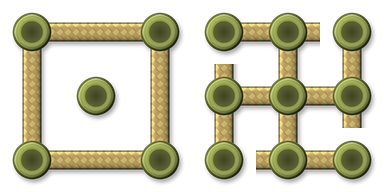
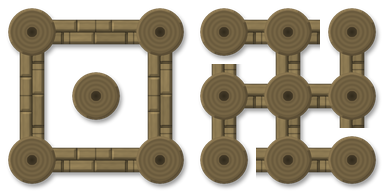
feat(art): walls with hard facets per piece, no outline and a darker palette; wood walls of staggered boards, bamboo walls of two rows of old poles; ceramic floor with the Surya Majapahit

diff --git a/Global/Asset/Structure/make_walls.py b/Global/Asset/Structure/make_walls.py
@@ -1,7 +1,7 @@
 """Wall sheets in RimWorld's art style, seen straight from above: a post at a wall's end, corner or join, beams to the
-walls beside it; material texture, soft bevel lit from the top-left, a dark edge of the material's own colour, a
-faint shadow. 16 join shapes in the side layout of module 10's walls, 64 px a cell.
-usage: python make_walls.py [key ...] [--preview]      (needs Pillow, numpy)"""
+walls beside it; material texture, a hard bevel on each piece (plank, brick, block, pole) lit from the top-left, no
+outline, a faint shadow. 16 join shapes in the side layout of module 10's walls, 64 px a cell.
+usage: python make_walls.py [key ...] [--outline]      (needs Pillow, numpy)"""
 import math
 import os
 import sys
@@ -61,31 +61,56 @@ def box(x0, y0, x1, y1, r=0.0):
     return (inside & (dx * dx + dy * dy <= r * r + 1e-6)).astype(np.float32)
 
 
+DARKEN = 0.82                   # walls a little darker than their materials' plain colours, to stand off floors
+
+
 class Material:
     """How a wall of one material looks: beam and post half-widths (in cells), colour, its textures, and its post
     `round` (a bamboo culm) or square with corners rounded by `corner` of its half-width."""
-    def __init__(self, key, colour, beam, post, beam_tex, post_tex, edge=0.42, post_colour=None, round=False, corner=0.18):
-        self.key, self.colour, self.beam, self.post = key, np.array(colour, np.float32), beam, post
+    def __init__(self, key, colour, beam, post, beam_tex, post_tex, edge=1.0, post_colour=None, round=False, corner=0.18,
+                 joints=None, post_joints=None, mortar=None, rough=0.0, open_joints=False):
+        # edge darkens the outline (1 = none, the look chosen); every colour is taken DARKEN times
+        self.key, self.colour, self.beam, self.post = key, np.array(colour, np.float32) * DARKEN, beam, post
         self.beam_tex, self.post_tex, self.edge = beam_tex, post_tex, edge
-        self.post_colour = np.array(post_colour or colour, np.float32)
+        self.post_colour = np.array(post_colour or colour, np.float32) * DARKEN
         self.round, self.corner = round, corner
+        # joints(): the seams or mortar on a beam running across (a T x T bool mask), post_joints() on a post; mortar is
+        # their colour (None: the piece's own, darkened); rough roughens the outline, as if cut by hand
+        self.joints, self.post_joints, self.rough = joints, post_joints, rough
+        self.open_joints = open_joints                          # the joints are gaps, the ground showing through
+        self.mortar = None if mortar is None else tuple(v * DARKEN for v in mortar)
 
 
 # ------------------------------------------------------------------ textures: T x T arrays of brightness factors, grain along x
 
-def planks(seed, boards=2, half=0.19):
-    """Boards along the beam, a dark seam between them, long grain; repeats every tile along x."""
-    g = field(T / 1.0, 3.0 * SS, seed) * 0.10 + field(T / 4.0, 1.2 * SS, seed + 1) * 0.06
-    y = np.arange(T)[:, None] + 0.5
-    width = 2 * half * T / boards
-    out = 1.0 + g
+# Where each row of boards along a wood beam ends, as fractions of a tile: staggered row to row, repeating every tile.
+BOARD_CUTS = ((0.12, 0.58), (0.36, 0.86))
+
+
+def boards_of(half=0.19):
+    """A wood beam running across: two rows of boards, each board's id, and its joints (the seam between the rows
+    and the boards' butt ends)."""
+    y, x = np.mgrid[0:T, 0:T] + 0.5
     top = T / 2 - half * T
-    for k in range(1, boards):
-        seam = top + k * width
-        out = out * (1 - 0.35 * np.exp(-((y - seam) / (0.9 * SS)) ** 2))
-    for k in range(boards):                       # each board a touch lighter or darker
-        y0, y1 = top + k * width, top + (k + 1) * width
-        out = np.where((y >= y0) & (y < y1), out * (0.96 + 0.08 * ((seed + k * 7) % 3) / 2), out)
+    row = np.clip(np.floor((y - top) / (half * T)), 0, 1).astype(int)
+    ids = np.zeros((T, T), np.int32)
+    ends = np.zeros((T, T), bool)
+    for r, cuts in enumerate(BOARD_CUTS):
+        cut_px = np.array(cuts) * T
+        k = np.searchsorted(cut_px, x[row == r], side="right") % len(cuts)
+        ids[row == r] = r * 10 + k
+        d = np.min(np.abs((x[..., None] - cut_px + T / 2) % T - T / 2), axis=-1)
+        ends |= (row == r) & (d < 0.7 * SS)
+    seam = np.abs(y - T / 2) < 0.7 * SS
+    return ids, seam | ends, row, x, cut_px
+
+
+def planks(seed, boards=2, half=0.19):
+    """Boards along the beam, short and staggered, each its own shade, grain along it."""
+    ids, joints, row, x, _ = boards_of(half)
+    g = field(T / 1.0, 3.0 * SS, seed) * 0.10 + field(T / 4.0, 1.2 * SS, seed + 1) * 0.06
+    tint = 0.90 + 0.16 * ((np.sin(ids * 12.9898 + 3.1) * 43758.5453) % 1.0)
+    out = (1.0 + g) * tint
     return out
 
 
@@ -117,15 +142,50 @@ def culm(seed):
     y, x = np.mgrid[0:T, 0:T] + 0.5
     r = np.hypot(x - T / 2, y - T / 2) / T
     out = 1.0 + 0.06 * np.cos(r * 90)
-    return np.where(r < 0.17, 0.42 + r * 1.2, out)
+    return np.where(r < 0.08, 0.42 + r * 2.4, out)
 
 
-def bricks(seed, half, course=None, length=None):
-    """Bricks seen on the wall's top: courses along the beam, joints staggered row to row, light mortar,
-    each brick a little lighter or darker."""
+# Where each row of bamboo poles along a wall ends, as fractions of a tile: staggered row to row, repeating every tile.
+POLE_CUTS = ((0.20, 0.74), (0.47, 0.99))
+
+
+def poles_along(half):
+    """A wall of old bamboo poles laid along it, two side by side, a wall running across: each pixel's pole, its
+    place across the pole (0..1), and the joints (the seams between rows and the poles' cut ends)."""
     y, x = np.mgrid[0:T, 0:T] + 0.5
-    rows = 3
-    course = course or (2 * half * T / rows)
+    rows = len(POLE_CUTS)
+    top = T / 2 - half * T
+    width = 2 * half * T / rows
+    row = np.clip(np.floor((y - top) / width), 0, rows - 1).astype(int)
+    across = (y - top) / width - row
+    ids = np.zeros((T, T), np.int32)
+    ends = np.zeros((T, T), bool)
+    for r, cuts in enumerate(POLE_CUTS):
+        cut_px = np.array(cuts) * T
+        sel = row == r
+        k = np.searchsorted(cut_px, x[sel], side="right") % len(cuts)
+        ids[sel] = r * 10 + k
+        d = np.min(np.abs((x[..., None] - cut_px + T / 2) % T - T / 2), axis=-1)
+        ends |= sel & (d < 0.7 * SS)
+    seams = (np.minimum(across, 1 - across) * width < 0.6 * SS) & (y > top + 1) & (y < T - top - 1)
+    return ids, across, seams | ends, x
+
+
+def old_poles(seed, half):
+    """Old bamboo poles along the wall: each round across (lit down its middle), weathered grey-tan and a little
+    lighter or darker than the next, node rings along it."""
+    ids, across, joints, x = poles_along(half)
+    tint = 0.84 + 0.26 * ((np.sin(ids * 12.9898 + 5.0) * 43758.5453) % 1.0)
+    out = (0.80 + 0.30 * np.sin(np.clip(across, 0, 1) * np.pi)) * tint * (1 + field(2.0 * SS, T / 10.0, seed) * 0.05)
+    offset = ((np.sin(ids * 78.233 + 1.0) * 43758.5453) % 1.0) * T
+    node = np.abs(((x + offset) % (T / 2)) - T / 4) < 0.6 * SS           # a node every half cell, shifted pole to pole
+    return np.where(node, out * 0.72, out)
+
+
+def brick_grid(half, course=None, length=None, joint=0.9):
+    """Courses along a beam running across, joints staggered row to row: each pixel's (row, column) and the mortar."""
+    y, x = np.mgrid[0:T, 0:T] + 0.5
+    course = course or (2 * half * T / 3)
     length = length or T / 4
     top = T / 2 - half * T
     row = np.floor((y - top) / course)
@@ -133,10 +193,15 @@ def bricks(seed, half, course=None, length=None):
     col = np.floor(xs / length)
     fy = (y - top) / course - row
     fx = xs / length - col
-    mortar = (np.minimum(fy, 1 - fy) * course < 0.9 * SS) | (np.minimum(fx, 1 - fx) * length < 0.9 * SS)
-    tint = 0.9 + 0.2 * ((np.sin(row * 12.9898 + col * 78.233) * 43758.5453) % 1.0)
-    out = tint * (1 + field(T / 6.0, T / 6.0, seed) * 0.05)
-    return np.where(mortar, 1.18, out)
+    mortar = (np.minimum(fy, 1 - fy) * course < joint * SS) | (np.minimum(fx, 1 - fx) * length < joint * SS)
+    return row, col, mortar
+
+
+def bricks(seed, half, course=None, length=None):
+    """Bricks seen on the wall's top, each a little lighter or darker (the mortar is drawn from the joints)."""
+    row, col, mortar = brick_grid(half, course, length)
+    tint = 0.88 + 0.24 * ((np.sin(row * 12.9898 + col * 78.233) * 43758.5453) % 1.0)
+    return tint * (1 + field(T / 6.0, T / 6.0, seed) * 0.05)
 
 
 def blocks(seed, half):
@@ -153,25 +218,57 @@ def pillar(seed, kind):
     c = T / 2
     if kind == "brick":
         out = 1 + field(T / 6.0, T / 6.0, seed) * 0.05
-        joint = (np.abs(x - c) < 0.9 * SS) | (np.abs(y - c) < 0.9 * SS)
         quad = (x > c) * 1 + (y > c) * 2
-        out = out * (0.92 + 0.06 * (quad % 3))
-        return np.where(joint, 1.16, out)
+        return out * (0.90 + 0.07 * (quad % 3))
     d = np.maximum(np.abs(x - c), np.abs(y - c)) / T
     border = (d > 0.26) & (d < 0.285)
     return np.where(border, 0.82, 1.0) * (1 + field(T / 8.0, T / 8.0, seed) * 0.06)
 
 
+def plank_seam(half):
+    y = np.arange(T)[:, None] + np.zeros((1, T)) + 0.5
+    return np.abs(y - T / 2) < 0.8 * SS
+
+
+def cross_joint():
+    y, x = np.mgrid[0:T, 0:T] + 0.5
+    return (np.abs(x - T / 2) < 0.9 * SS) | (np.abs(y - T / 2) < 0.9 * SS)
+
+
 MATERIALS = {
     "wood": Material("wood", (136, 96, 60), 0.19, 0.37, lambda s: planks(s), lambda s: end_grain(s),
-                     post_colour=(122, 84, 52)),
-    "bamboo": Material("bamboo", (196, 170, 104), 0.15, 0.30, lambda s: weave(s, 0.15), lambda s: culm(s),
-                       post_colour=(150, 160, 84), round=True, edge=0.45),
+                     post_colour=(122, 84, 52), joints=lambda: boards_of(0.19)[1], rough=0.02),
+    "bamboo": Material("bamboo", (150, 130, 88), 0.19, 0.37, lambda s: old_poles(s, 0.19), lambda s: culm(s),
+                       post_colour=(138, 118, 80), round=True, joints=lambda: poles_along(0.19)[2]),
     "brick": Material("brick", (170, 82, 56), 0.23, 0.38, lambda s: bricks(s, 0.23), lambda s: pillar(s, "brick"),
-                      post_colour=(160, 76, 52), corner=0.08, edge=0.40),
+                      post_colour=(160, 76, 52), corner=0.08, joints=lambda: brick_grid(0.23)[2],
+                      post_joints=cross_joint, mortar=(132, 104, 82), rough=0.05),
     "stone": Material("stone", (128, 128, 122), 0.25, 0.40, lambda s: blocks(s, 0.25), lambda s: pillar(s, "stone"),
-                      post_colour=(120, 120, 114), corner=0.10, edge=0.42),
+                      post_colour=(120, 120, 114), corner=0.10, joints=lambda: brick_grid(0.25, 0.25 * T, T / 2)[2],
+                      mortar=(92, 90, 84), rough=0.08),
 }
+
+
+def roughen(mask, amount, seed):
+    """The outline nudged in and out a little, as if cut by hand (repeats every tile, so joins still meet)."""
+    if amount <= 0:
+        return mask
+    n = field(T / 7.0, T / 7.0, seed) * 0.6 + field(T / 18.0, T / 18.0, seed + 1) * 0.4
+    return ((blur(mask, 1.2 * SS) + n * amount) > 0.5).astype(np.float32)
+
+
+def facets(mask, width=2.0):
+    """A hard-edged bevel on each piece of `mask`: a lit band along its top-left edges, a dark band along its
+    bottom-right, flat between."""
+    s = blur(mask, 1.0 * SS)
+    gx = shift(s, 0, -1) - shift(s, 0, 1)
+    gy = shift(s, -1, 0) - shift(s, 1, 0)
+    facing = (gx + gy) / (np.hypot(gx, gy) * 1.4142 + 1e-6)
+    band = (mask > 0) & ~(erode(mask, width * SS) > 0)
+    out = np.ones(mask.shape, np.float32)
+    out[band & (facing > 0.35)] = 1.16
+    out[band & (facing < -0.35)] = 0.78
+    return out
 
 
 def tile(mat, sides, seed):
@@ -197,28 +294,46 @@ def tile(mat, sides, seed):
     beams = np.maximum(beams_h, beams_v) * (1 - post)
     shape = np.maximum(beams, post)
 
+    whole = roughen(np.maximum(beams_h, beams_v), mat.rough, 41)
+    post = roughen(post, mat.rough, 43)
+    beams_h = whole * (beams_h >= beams_v)
+    beams_v = whole * (beams_v > beams_h)
+    beams = whole * (1 - post)
+    shape = np.maximum(beams, post)
+
     tex_h = mat.beam_tex(1)                                     # one texture a direction: joints meet across tiles
     tex_v = mat.beam_tex(1).T
     shade = np.where(beams_v > beams_h, tex_v, tex_h)
     base = np.where(post[..., None] > 0, mat.post_colour * mat.post_tex(seed + 9)[..., None], mat.colour * shade[..., None])
 
-    def lit(mask):
-        """Bevel: brighter toward the top-left edge, darker toward the bottom-right."""
-        s = blur(mask, 2.2 * SS)
-        k = int(1.5 * SS)
-        e = shift(s, k, k) - shift(s, -k, -k)
-        return 1.0 - 0.9 * e
-
-    light = np.where(post > 0, lit(post), lit(np.maximum(beams_h, beams_v)))
+    # The pieces between the joints each get a hard bevel: a lit facet top-left, a shadowed one bottom-right.
+    joints = np.zeros((T, T), bool)
+    if mat.joints is not None:
+        jh = mat.joints()
+        joints |= np.where(beams_v > beams_h, jh.T, jh) & (beams > 0)
+    if mat.post_joints is not None:
+        joints |= mat.post_joints() & (post > 0)
+    if mat.open_joints:                                         # gaps between poles: nothing drawn there
+        gaps = joints & (post == 0)
+        whole = whole * ~gaps
+        beams = beams * ~gaps
+        shape = np.maximum(beams, post)
+        joints = joints & ~gaps
+    pieces_b = (beams > 0) & ~joints
+    pieces_p = (post > 0) & ~joints
+    light = np.where(post > 0, facets(pieces_p.astype(np.float32)), facets(whole * ~joints))
     col = base * light[..., None]
-    edge = 1.6 * SS
+    if mat.mortar is not None:
+        col[joints] = np.array(mat.mortar, np.float32) * (0.9 + 0.2 * field(T / 8.0, T / 8.0, 47))[joints][..., None]
+    else:
+        col[joints] *= 0.62
+    edge = 1.5 * SS
     # The beam runs on under the post: its edge only where it shows, so the post's one edge marks the join.
-    whole = np.maximum(beams_h, beams_v)
     ring = (whole > 0) & ~(erode(whole, edge) > 0) & (post == 0)
     col[ring] = col[ring] * mat.edge
     ring = (post > 0) & ~(erode(post, edge) > 0)
     col[ring] = col[ring] * mat.edge
-    shadow = blur(shift(shape, 3 * SS, 2 * SS), 2.0 * SS) * 0.35 * (1 - shape)
+    shadow = blur(shift(shape, 3 * SS, 2 * SS), 2.0 * SS) * 0.40 * (1 - shape)
 
     out = np.zeros((T, T, 4), np.float32)
     out[..., :3] = col * shape[..., None]
@@ -237,6 +352,9 @@ def sheet(mat):
 
 def main():
     keys = [a for a in sys.argv[1:] if not a.startswith("--")] or list(MATERIALS)
+    if "--outline" in sys.argv:                                 # the dark outline, for comparison
+        for mat in MATERIALS.values():
+            mat.edge = 0.36
     for key in keys:
         sheet(MATERIALS[key]).save(os.path.join(HERE, f"wall_{key}.png"))
         print(f"wall_{key}.png")

diff --git a/Global/Asset/Floor/make_floors.py b/Global/Asset/Floor/make_floors.py
@@ -253,6 +253,45 @@ def bamboo():
     return relief(albedo, height, 1.0, 0.55)
 
 
+def ceramic():
+    """Square terracotta tiles (Majapahit), two to a cell on the cell grid, set close: matte fired clay, each its own
+    shade, a soft bevel, the Surya Majapahit (an eight-rayed sun) pressed into its middle, and a quarter lotus in
+    each corner, so four tiles meeting make a lotus."""
+    size = CELL / 2
+    i, j = np.floor(X / size), np.floor(Y / size)
+    fx, fy = X - i * size, Y - j * size
+    ids = (i * 131 + j).astype(np.int32) % 4096
+    joint = 0.008 * CELL
+    inner = np.minimum(np.minimum(fx, size - fx), np.minimum(fy, size - fy)) - joint / 2
+    face = bevel(inner, 0.018 * CELL)
+    # the sun: a disc ringed by eight long and eight short rays, pressed in
+    dx, dy = (fx - size / 2) / size, (fy - size / 2) / size
+    r, a = np.hypot(dx, dy), np.arctan2(dy, dx)
+    sector = np.abs(((a / (2 * np.pi / 8)) % 1) - 0.5) * 2          # 0 on a ray's line, 1 halfway between rays
+    long = (np.round(a / (2 * np.pi / 8)) % 2) == 0
+    reach = np.where(long, 0.30, 0.23)
+    ray = (r > 0.12) & (r < reach) & (sector < 0.55 * (1 - (r - 0.12) / (reach - 0.12)))
+    disc = r < 0.075
+    ring = np.abs(r - 0.10) < 0.014
+    sun = ray | disc | ring
+    # a quarter lotus in each corner: petals round the corner point
+    cxs = np.where(fx < size / 2, 0, size) ; cys = np.where(fy < size / 2, 0, size)
+    ex, ey = (fx - cxs) / size, (fy - cys) / size
+    er, ea = np.hypot(ex, ey), np.arctan2(ey, ex)
+    petal = (er < 0.15 + 0.05 * np.abs(np.cos(ea * 4))) & (er > 0.035)
+    pressed = (sun | petal).astype(np.float32)
+    soft = np.array(Image.fromarray((pressed * 255).astype(np.uint8)).filter(__import__("PIL.ImageFilter", fromlist=["x"]).GaussianBlur(K * 0.8))) / 255
+    height = face * 3.0 - soft * face * 2.0 + face * field(60, 92) * 0.25
+    tint = tint_of(ids, 93, 0.14)
+    albedo = np.array((140, 86, 66), np.float32) * (tint * patches(94, 0.07) * (1 - 0.14 * soft))[..., None]
+    grain = field(200, 97) * 0.06 + field(70, 98) * 0.04                  # matte fired clay, no glaze
+    albedo *= (1 + grain)[..., None]
+    albedo[field(180, 95) > 0.6] *= 0.88
+    grout = inner <= 0
+    albedo[grout] = np.array((168, 148, 122), np.float32) * patches(96, 0.05)[grout][..., None]
+    return relief(albedo, height, 1.0, 0.22)
+
+
 SHIFT = 0.12                    # cells a plank or pole end may reach past the cell line or stop short
 
 
@@ -291,7 +330,8 @@ def pole_pieces():
 PIECES = {"stone": lambda: stone_pieces(14, 21, 0.8), "road": lambda: stone_pieces(22, 31, 0.7),
           "wood": plank_pieces, "bamboo": pole_pieces}
 
-SURFACES = {"wood": teak, "stone": flagstones, "road": cobbles, "rug": pandan, "dirt_path": earth, "bamboo": bamboo}
+SURFACES = {"wood": teak, "stone": flagstones, "road": cobbles, "rug": pandan, "dirt_path": earth, "bamboo": bamboo,
+            "ceramic": ceramic}
 
 
 def roof():

diff --git a/Global/Asset/Structure/make_doors.py b/Global/Asset/Structure/make_doors.py
@@ -96,7 +96,7 @@ def leaf_carved(half):
 
 
 # key -> (draw, half thickness, post half-width of the wall it goes in, from make_walls.py)
-DOORS = {"bamboo": (leaf_bamboo, 0.15, 0.30), "wood": (leaf_wood, 0.17, 0.37), "carved": (leaf_carved, 0.19, 0.38)}
+DOORS = {"bamboo": (leaf_bamboo, 0.17, 0.37), "wood": (leaf_wood, 0.17, 0.37), "carved": (leaf_carved, 0.19, 0.38)}
 LENGTH = 1.0                    # set per door in sheet(): the gap between the posts either side, plus TUCK each end
 
 
